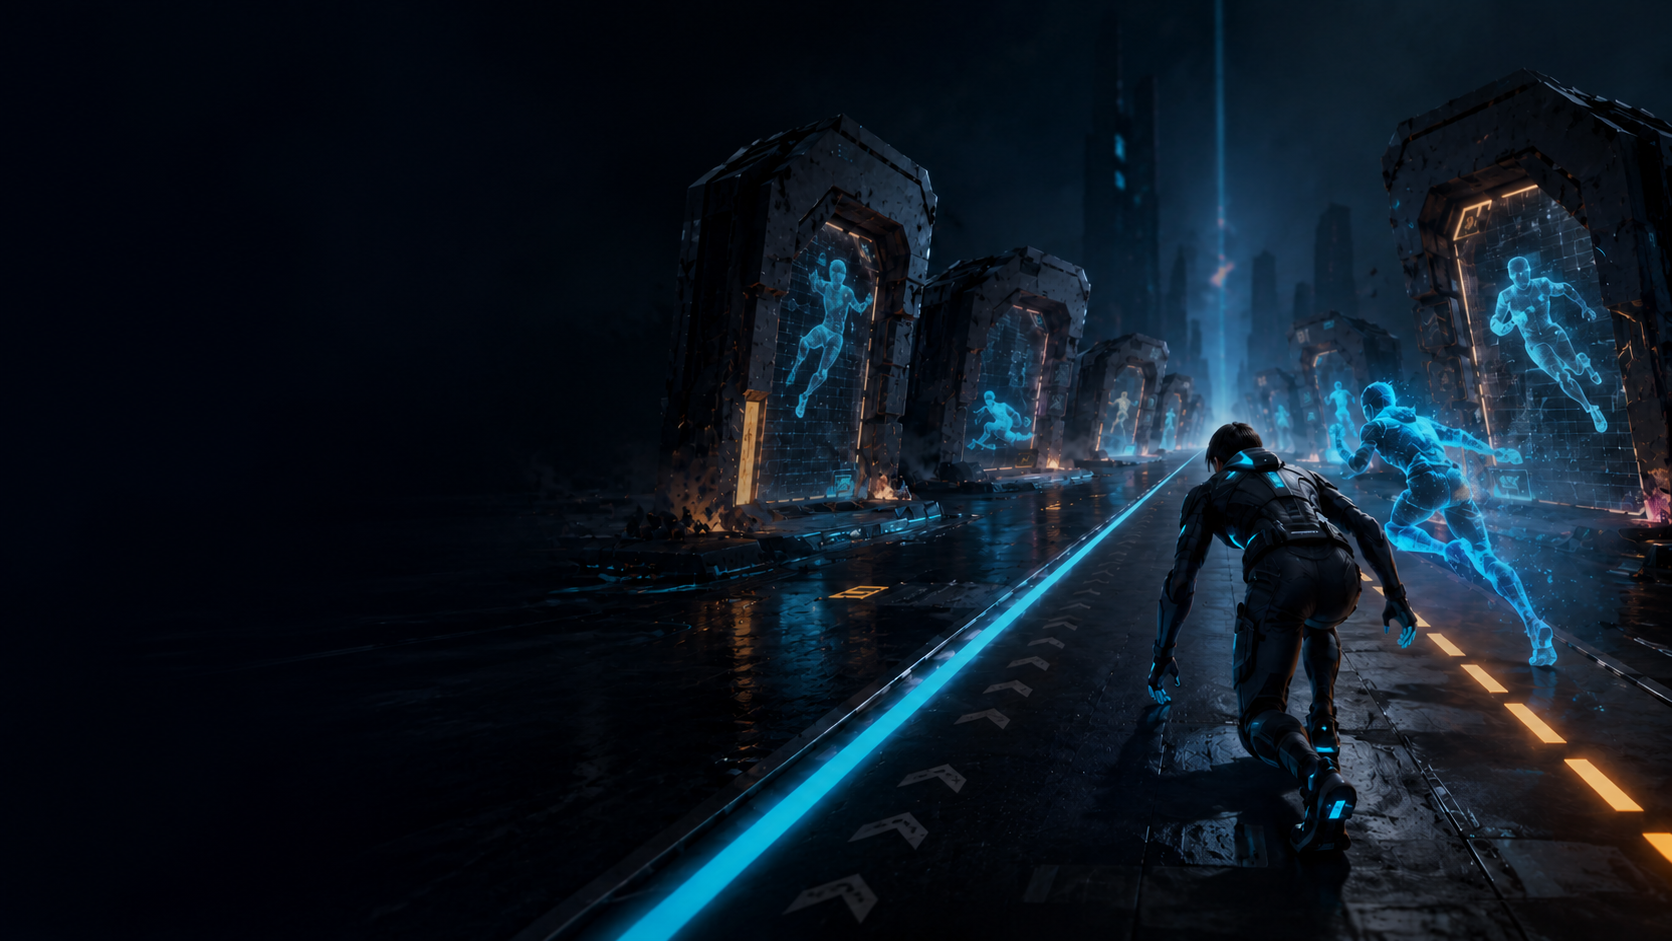
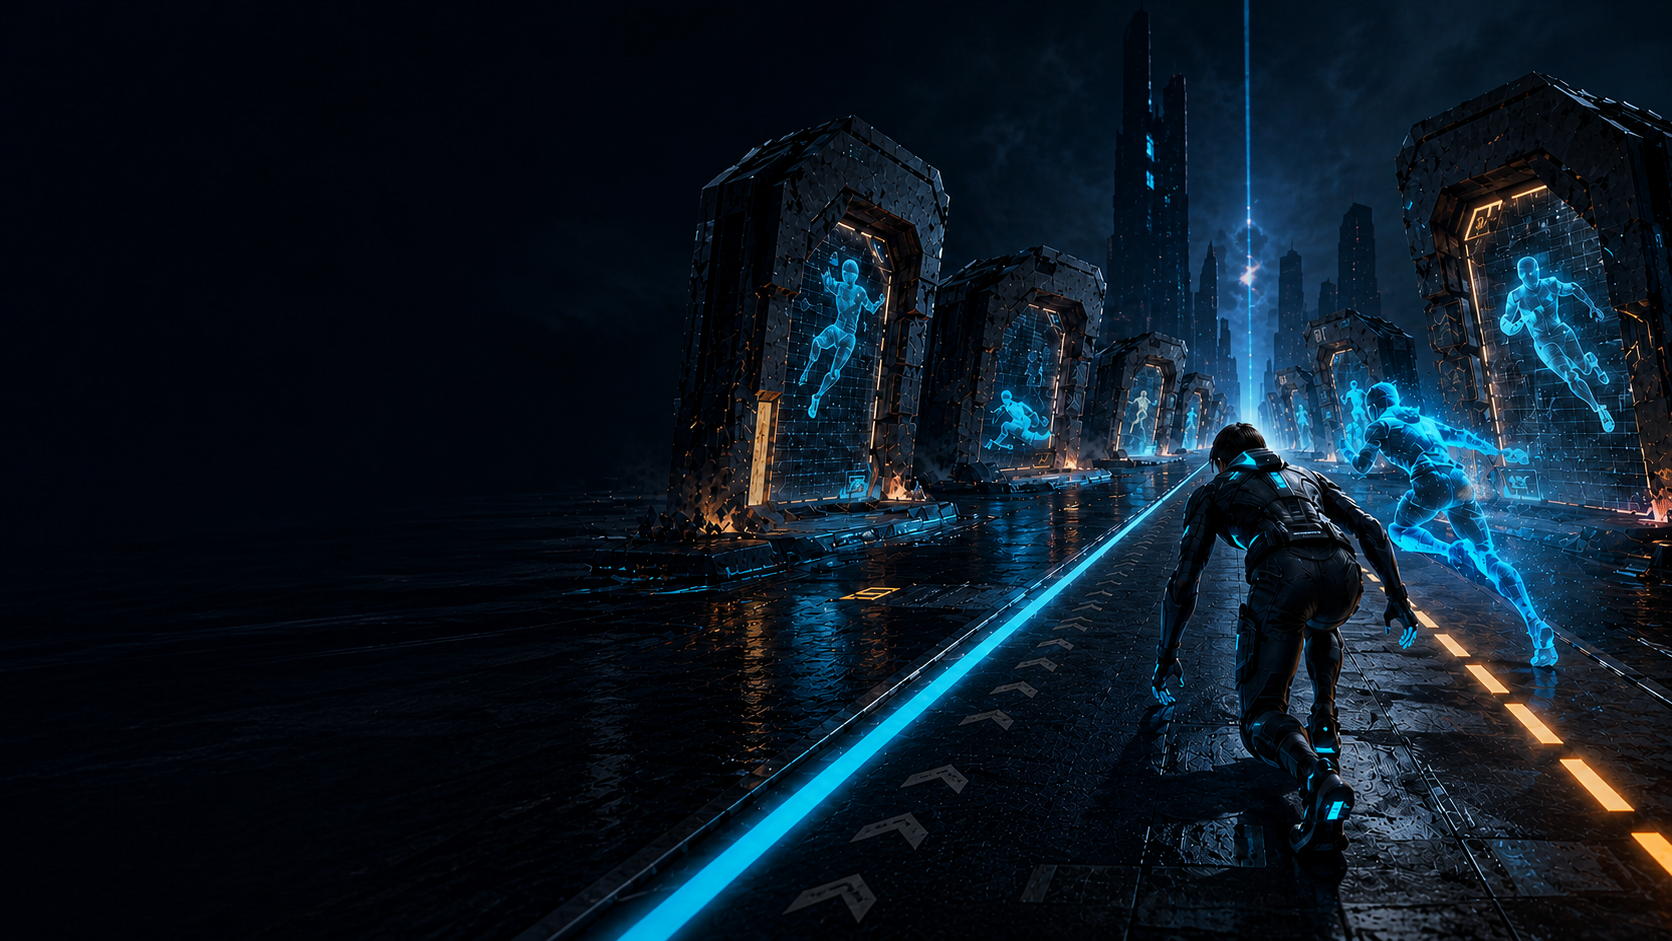
feat: 加入高清首页并防止环境 Shader 剥离

diff --git a/Assets/Editor/BuildScene.cs b/Assets/Editor/BuildScene.cs
@@ -23,11 +23,14 @@ public class BuildScene
 
         EnsureFolder("Assets/Prefabs");
         EnsureFolder("Assets/Prefabs/Materials");
+        EnsureFolder("Assets/Resources/Materials");
         RemoveMissingScriptsFromScene();
         CleanupRuntimeUI();
 
         CreateCharacterMaterials();
         CreateSkyMaterial();
+        CreateRuntimeKitMaterial();
+        ConfigureMenuBackgroundTexture();
         EnsureMainCamera();
         CreatePlayer();
         CreateGroundPlane();
@@ -397,6 +400,52 @@ public class BuildScene
         material.SetFloat("_Exposure", 0.52f);
         material.SetFloat("_Rotation", 0f);
         EditorUtility.SetDirty(material);
+    }
+
+    static void CreateRuntimeKitMaterial()
+    {
+        const string path =
+            "Assets/Resources/Materials/EchoKitVertexColor.mat";
+        Shader shader = Shader.Find(EchoEnvironmentKit.VertexColorShaderName);
+        if (shader == null)
+            throw new System.InvalidOperationException(
+                "Required environment shader is unavailable: "
+                + EchoEnvironmentKit.VertexColorShaderName);
+
+        Material material = AssetDatabase.LoadAssetAtPath<Material>(path);
+        if (material == null)
+        {
+            material = new Material(shader) { name = "EchoKitVertexColor" };
+            AssetDatabase.CreateAsset(material, path);
+        }
+        else
+        {
+            material.shader = shader;
+        }
+        material.SetColor("_BaseTint", new Color(0.075f, 0.11f, 0.15f, 1f));
+        material.SetColor("_EmissionTint", new Color(0.10f, 0.52f, 0.78f, 1f));
+        material.SetFloat("_TintStrength", 0.97f);
+        material.SetFloat("_EmissionStrength", 0.38f);
+        EditorUtility.SetDirty(material);
+    }
+
+    static void ConfigureMenuBackgroundTexture()
+    {
+        const string path =
+            "Assets/Resources/Art/Menu/MemoryCorridorMenu.png";
+        TextureImporter importer = AssetImporter.GetAtPath(path)
+            as TextureImporter;
+        if (importer == null) return;
+
+        importer.textureType = TextureImporterType.Default;
+        importer.sRGBTexture = true;
+        importer.mipmapEnabled = false;
+        importer.npotScale = TextureImporterNPOTScale.None;
+        importer.textureCompression = TextureImporterCompression.Uncompressed;
+        importer.compressionQuality = 100;
+        importer.maxTextureSize = 4096;
+        importer.filterMode = FilterMode.Bilinear;
+        importer.SaveAndReimport();
     }
 
     // ── scene objects ──────────────────────────────────

diff --git a/Assets/Tests/EditMode/UIExperienceTests.cs b/Assets/Tests/EditMode/UIExperienceTests.cs
@@ -2,6 +2,7 @@ using NUnit.Framework;
 using System;
 using System.IO;
 using System.Security.Cryptography;
+using UnityEditor;
 using UnityEngine;
 using Object = UnityEngine.Object;
 
@@ -117,6 +118,18 @@ public sealed class UIExperienceTests
             "Art/Menu/MemoryCorridorMenu");
         Assert.IsNotNull(background);
         Assert.Greater(background.width, background.height);
+        Assert.GreaterOrEqual(background.width, 1600);
+        Assert.GreaterOrEqual(background.height, 900);
+
+        TextureImporter importer = AssetImporter.GetAtPath(
+            "Assets/Resources/Art/Menu/MemoryCorridorMenu.png")
+            as TextureImporter;
+        Assert.IsNotNull(importer);
+        Assert.IsFalse(importer.mipmapEnabled,
+            "Full-screen UI art must not soften through mipmaps.");
+        Assert.AreEqual(TextureImporterNPOTScale.None, importer.npotScale);
+        Assert.AreEqual(TextureImporterCompression.Uncompressed,
+            importer.textureCompression);
     }
 
     [Test]

diff --git a/Assets/Scripts/EchoEnvironmentKit.cs b/Assets/Scripts/EchoEnvironmentKit.cs
@@ -73,12 +73,17 @@ public static class EchoEnvironmentKit
     {
         if (_sharedMaterial == null)
         {
-            Shader shader = Shader.Find(VertexColorShaderName);
-            if (shader == null) return;
-            _sharedMaterial = new Material(shader)
+            Material authored = Resources.Load<Material>(
+                "Materials/EchoKitVertexColor");
+            if (authored != null)
+                _sharedMaterial = Object.Instantiate(authored);
+            else
             {
-                name = "EchoKit_VertexColor"
-            };
+                Shader shader = Shader.Find(VertexColorShaderName);
+                if (shader == null) return;
+                _sharedMaterial = new Material(shader);
+            }
+            _sharedMaterial.name = "EchoKit_VertexColor_Runtime";
         }
 
         Renderer[] renderers =

diff --git a/Assets/Tests/PlayMode/RuntimeSmokeTests.cs b/Assets/Tests/PlayMode/RuntimeSmokeTests.cs
@@ -20,6 +20,12 @@ public sealed class RuntimeSmokeTests
         Assert.IsNotNull(Resources.Load<AudioClip>("Audio/collision"));
         Assert.IsNotNull(Resources.Load<AudioClip>("Audio/coin"));
         Assert.IsNotNull(Resources.Load<AudioClip>("Audio/ui_click"));
+        Material kitMaterial = Resources.Load<Material>(
+            "Materials/EchoKitVertexColor");
+        Assert.IsNotNull(kitMaterial,
+            "The environment shader must be referenced by a bundled material so player builds cannot strip it.");
+        Assert.AreEqual(EchoEnvironmentKit.VertexColorShaderName,
+            kitMaterial.shader.name);
         Assert.AreEqual(4, GameBalanceConfig.Current.powerUps.Length);
     }
 
